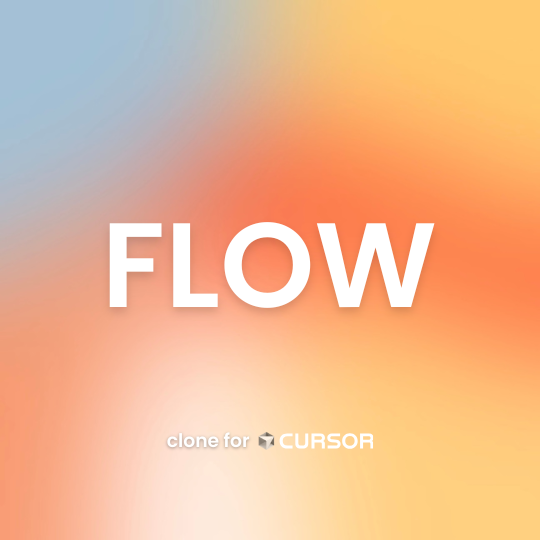
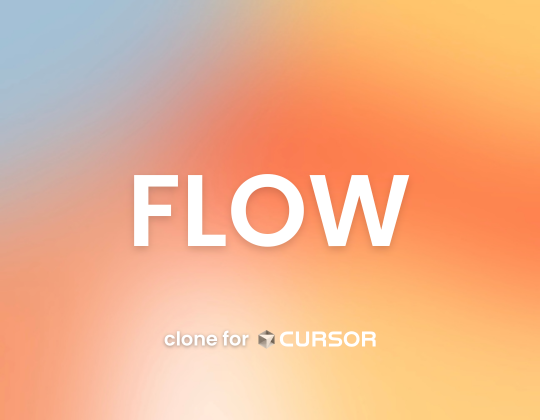
new card design

Changed region(s): [[0.1778, 0.4024, 0.8, 0.5881], [0.2963, 0.7738, 0.7111, 0.8357], [0.4148, 0.1548, 0.4444, 0.1857]]

diff --git a/docs/projects/index.md b/docs/projects/index.md
@@ -27,7 +27,7 @@ hide:
 
 !!! note ""
     <center>
-    <iframe width="560" height="315" src="https://www.youtube.com/embed/n5vYcVVIurg?si=Y8H1cuiJmeuWI0Tq" title="YouTube video player" frameborder="0" allow="accelerometer; autoplay; clipboard-write; encrypted-media; gyroscope; picture-in-picture; web-share" referrerpolicy="strict-origin-when-cross-origin" allowfullscreen></iframe>
+    <iframe width="560" height="315" src="https://www.youtube.com/embed/n5vYcVVIurg?si=FCkghf6DYYgQ2Fho" title="YouTube video player" frameborder="0" allow="accelerometer; autoplay; clipboard-write; encrypted-media; gyroscope; picture-in-picture; web-share" referrerpolicy="strict-origin-when-cross-origin" allowfullscreen></iframe>
 
     I made Perplexity Clone and called it Poogle! [:material-web: **Read the blog**](../writeups/building-multi-agent-systems/index.md){target=_blank}</center>
 
